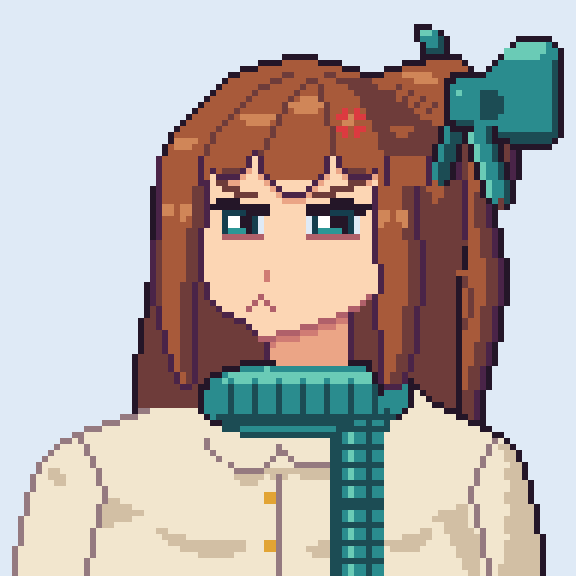
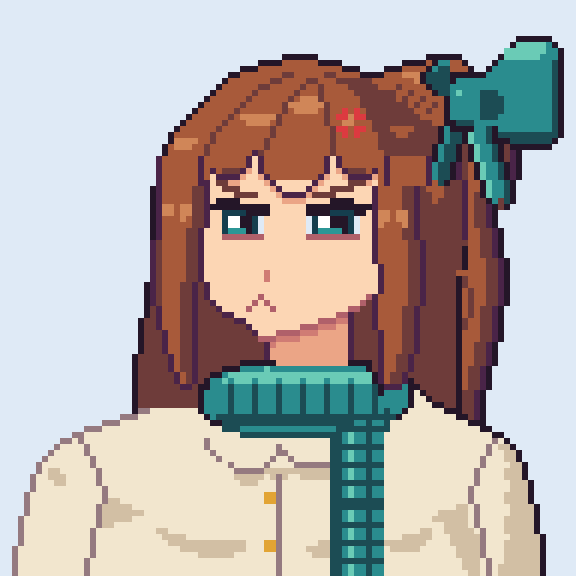
r13 bust: far-loop wedge

Changed region(s): [[0.7188, 0.0312, 0.7812, 0.1875]]

diff --git a/pipeline/tools/r13_bust/build_base.py b/pipeline/tools/r13_bust/build_base.py
@@ -171,13 +171,6 @@ span(45, 75, 76, "l"); span(46, 75, 75, "l")
 #    pinched + creased loops, upper rises up-back, lower drops down-back; tip to tip ~41 px, >=3 px inside.
 # =====================================================================================================
 # (round 4, review 3: a ribbon bow - far-loop tip behind the crown, pinched knot, near loop, two short splayed tails)
-# far loop tip peeks up-left behind the crown (drawn first: the hair line overlaps its base at y9-10)
-paint([(4, (69, 71, "K")),
-       (5, (69, 69, "K"), (70, 71, "e"), (72, 72, "c"), (73, 73, "K")),
-       (6, (69, 69, "K"), (70, 72, "c"), (73, 73, "b"), (74, 74, "K")),
-       (7, (70, 70, "K"), (71, 72, "c"), (73, 73, "b"), (74, 74, "K")),
-       (8, (70, 70, "K"), (71, 73, "b"), (74, 74, "K")),
-       (9, (70, 70, "K"))])
 # half-up gather: the upper hair is pulled back from the crown into the knot
 paint([(9, (71, 76, "K")), (10, (67, 70, "K"), (71, 76, "m"), (77, 77, "K")),
        (11, (64, 66, "K"), (67, 77, "m"), (78, 78, "K")), (12, (62, 63, "K"), (64, 77, "m"))])
@@ -239,6 +232,15 @@ span(20, 75, 78, "b")
 g[15][76] = "e"
 span(12, 75, 78, "K"); span(21, 75, 78, "K")
 g[13][75] = "K"; g[20][75] = "K"; g[12][79] = "K"
+# far loop (review 4): a 5x6 wedge behind the knot, opening into the knot's K at x75; hair K covers its left edge
+put(g, 70, 10, """
+__Kcc
+_Kcbb
+Kbbbb
+Kbbbb
+_Kbbb
+__Kbb
+""")
 # =====================================================================================================
 # 6. COAT: sloped shoulders, armhole seams, armpit wedges, bust crescents (light from upper-left)
 # =====================================================================================================

diff --git a/docs/review/r13_bust.md b/docs/review/r13_bust.md
@@ -20,7 +20,7 @@ Up to 25 colours per file. `pixgrid stats` shows only catchlights, the knot glin
 - The long tail is gone. Ponytail hair fills the area.
 - Near loop: x79-93, y6-24, pinched to the knot height. Highlight is on the top arc; there is a pocket and a shadowed underside.
 - Knot: x75-78, y13-20, with outline notches.
-- The far-loop tip peeks behind the crown at x69-74, y4-10.
+- Far loop (review 4): a 5x6 b/c wedge at x70-74, y10-15, opening into the knot at x75. The boxed tip at y4-10 is gone.
 - Two short splayed V-cut tails: near 4 px, y21-33, drifting right; far 3 px, y21-30, drifting left.
 - At 1x it reads as a ribbon bow. The faces did not change, so the round 3 blind tests still apply.
 
